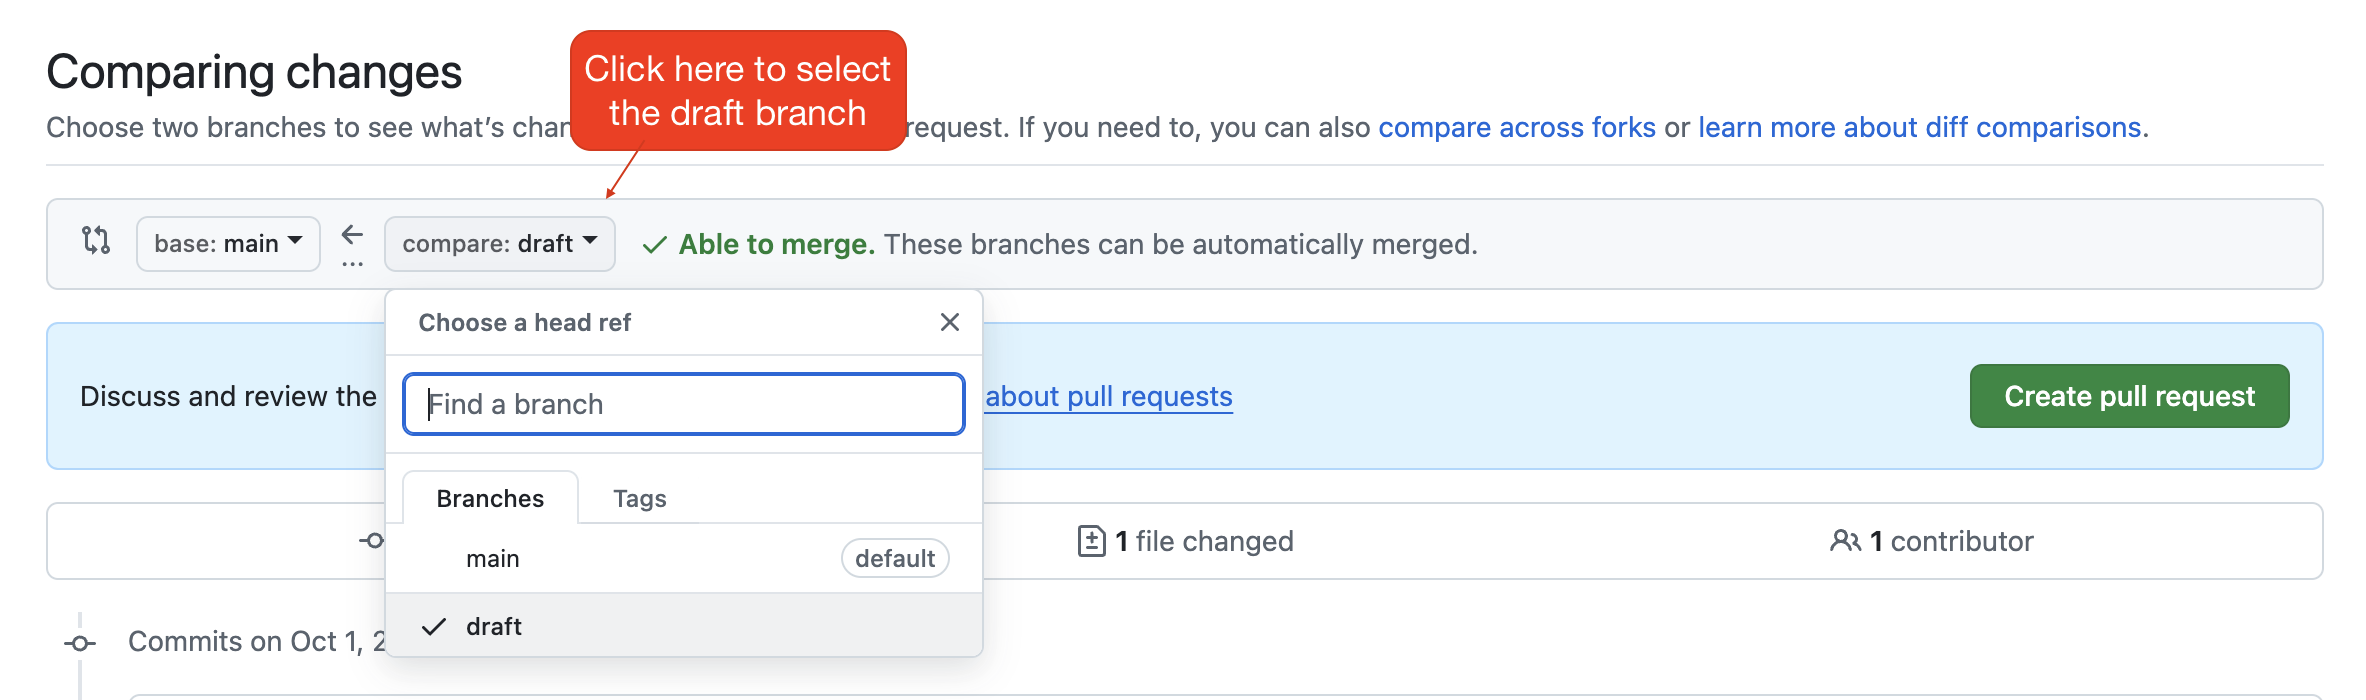
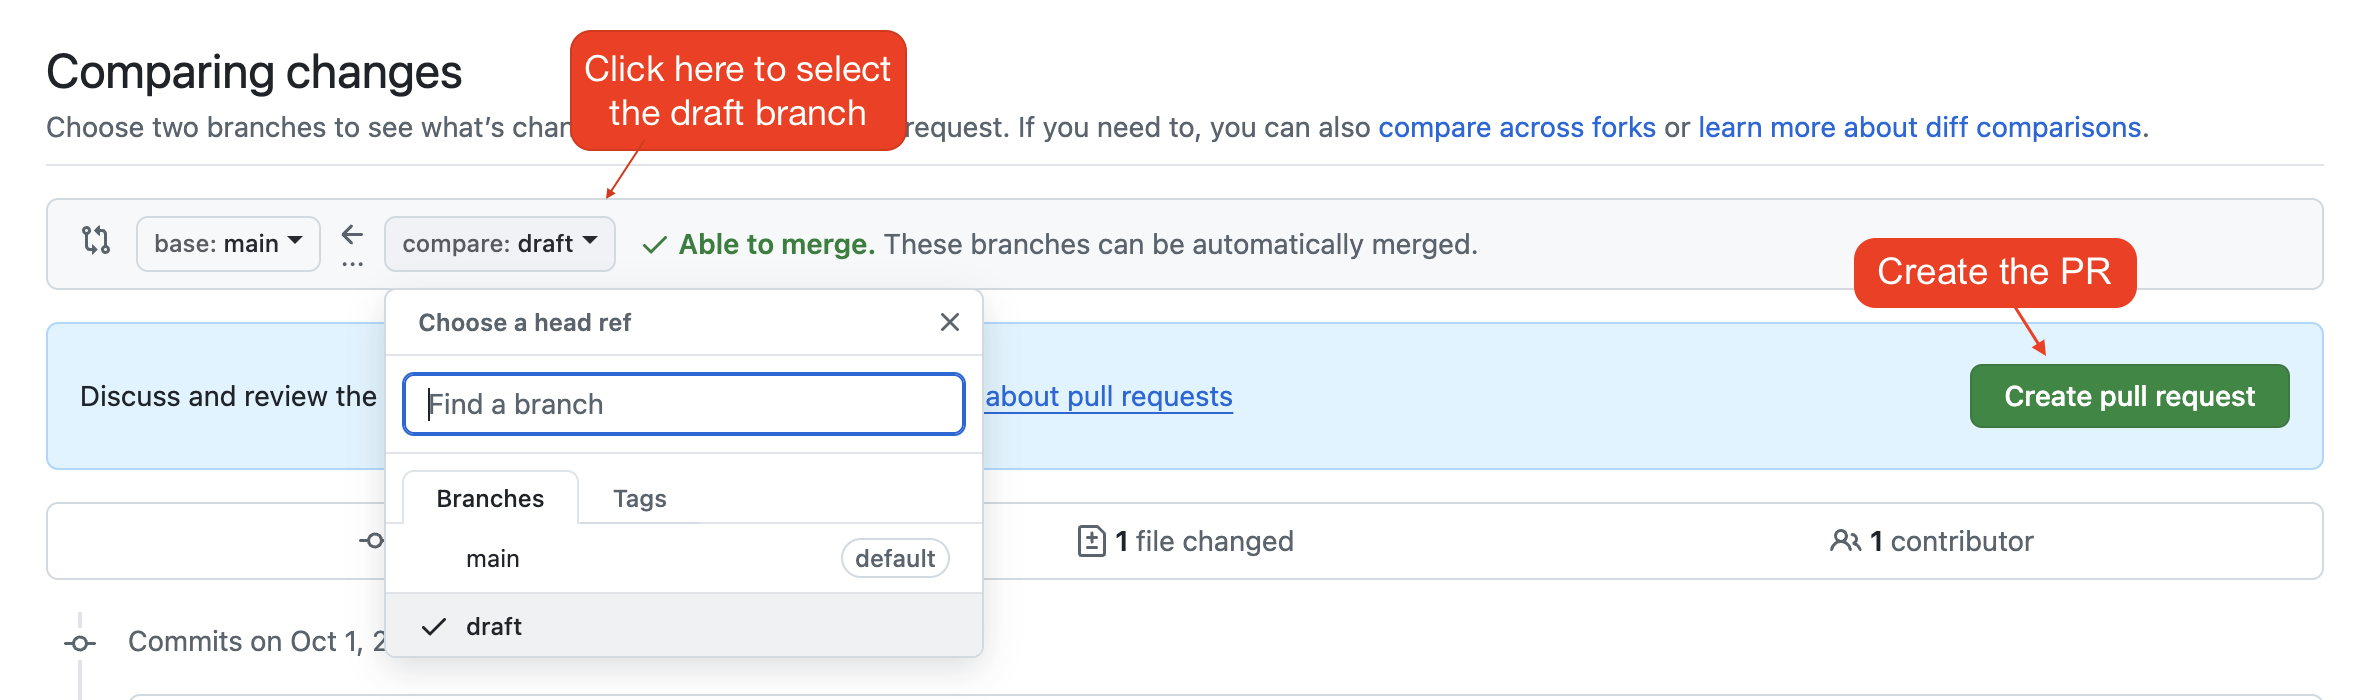
updating assignment submission to submit PR link

Changed region(s): [[0.7713, 0.33, 0.9256, 0.45]]

diff --git a/fullstack-curriculum/how-tos/working-with-assignments.md b/fullstack-curriculum/how-tos/working-with-assignments.md
@@ -281,7 +281,11 @@ To submit an assignment, do the following:
     ![Change the compare branch to be your draft branch](./img/assignment-select-draft-branch.png)
 
 5. Tag your instructor as a **Reviewer**.
-6. Your instructor will provide feedback on GitHub and will either approve your branch to be merged or will request that you resubmit.
+
+    ![alt text](img/assignment-tag-reviewer.png)
+
+6. Submit the URL of the pull request on canvas. The URL should start with `https://github.com` and end with `/pull/NUMBER`, like this: https://github.com/benspector-mls/hello-world/pull/3
+7. Your instructor will provide feedback on GitHub and will either approve your branch to be merged or will request that you resubmit.
 
 ### How to Undo a Commit to Main and Move Commits to Draft
 
